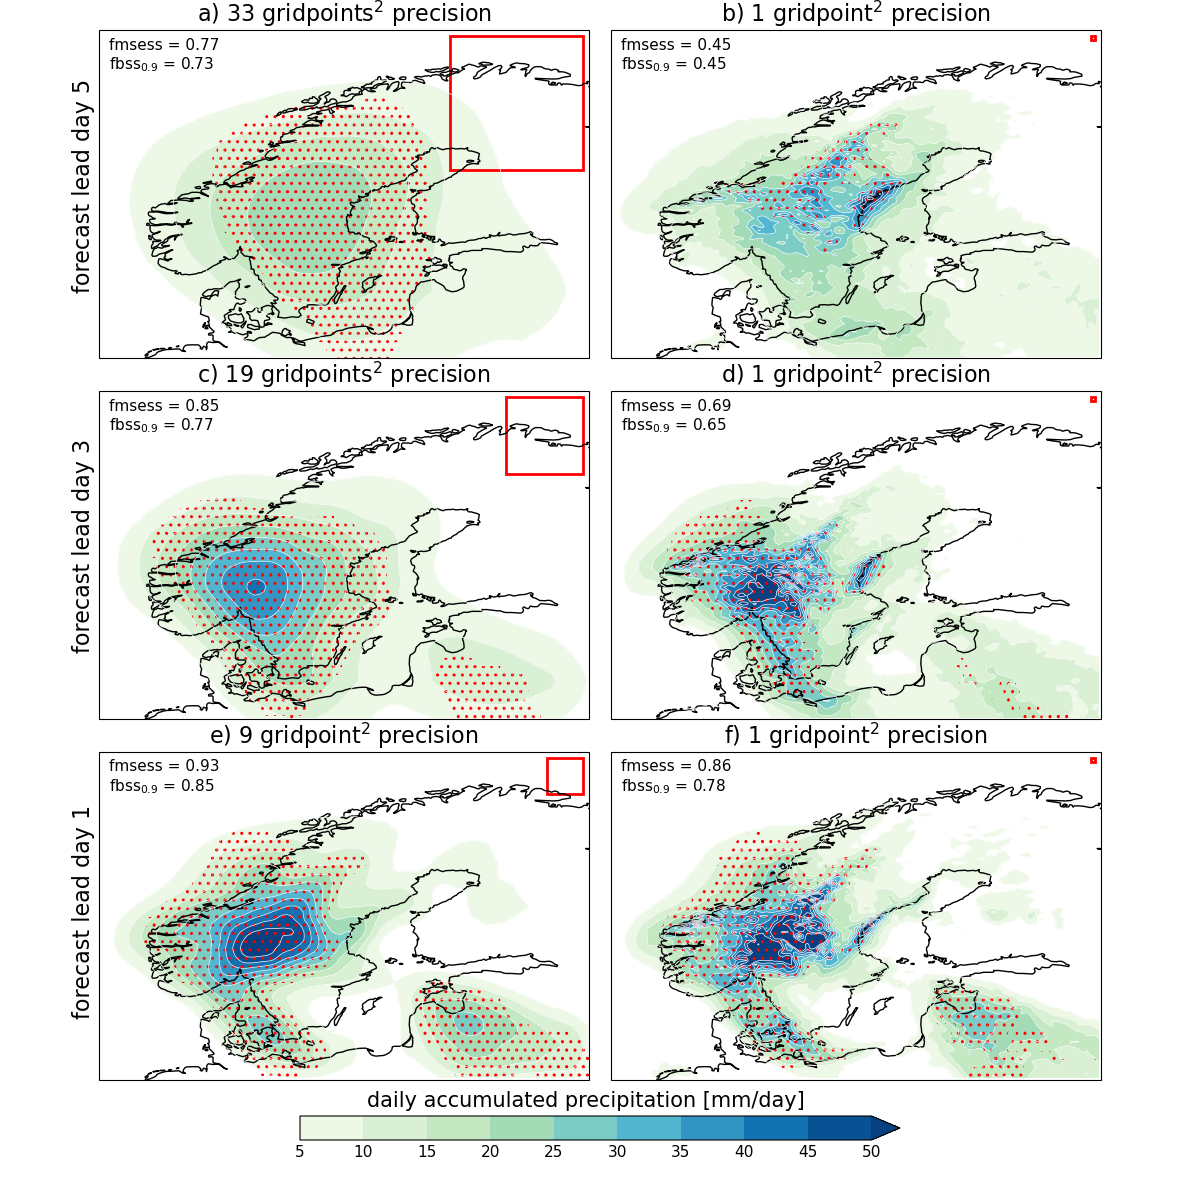
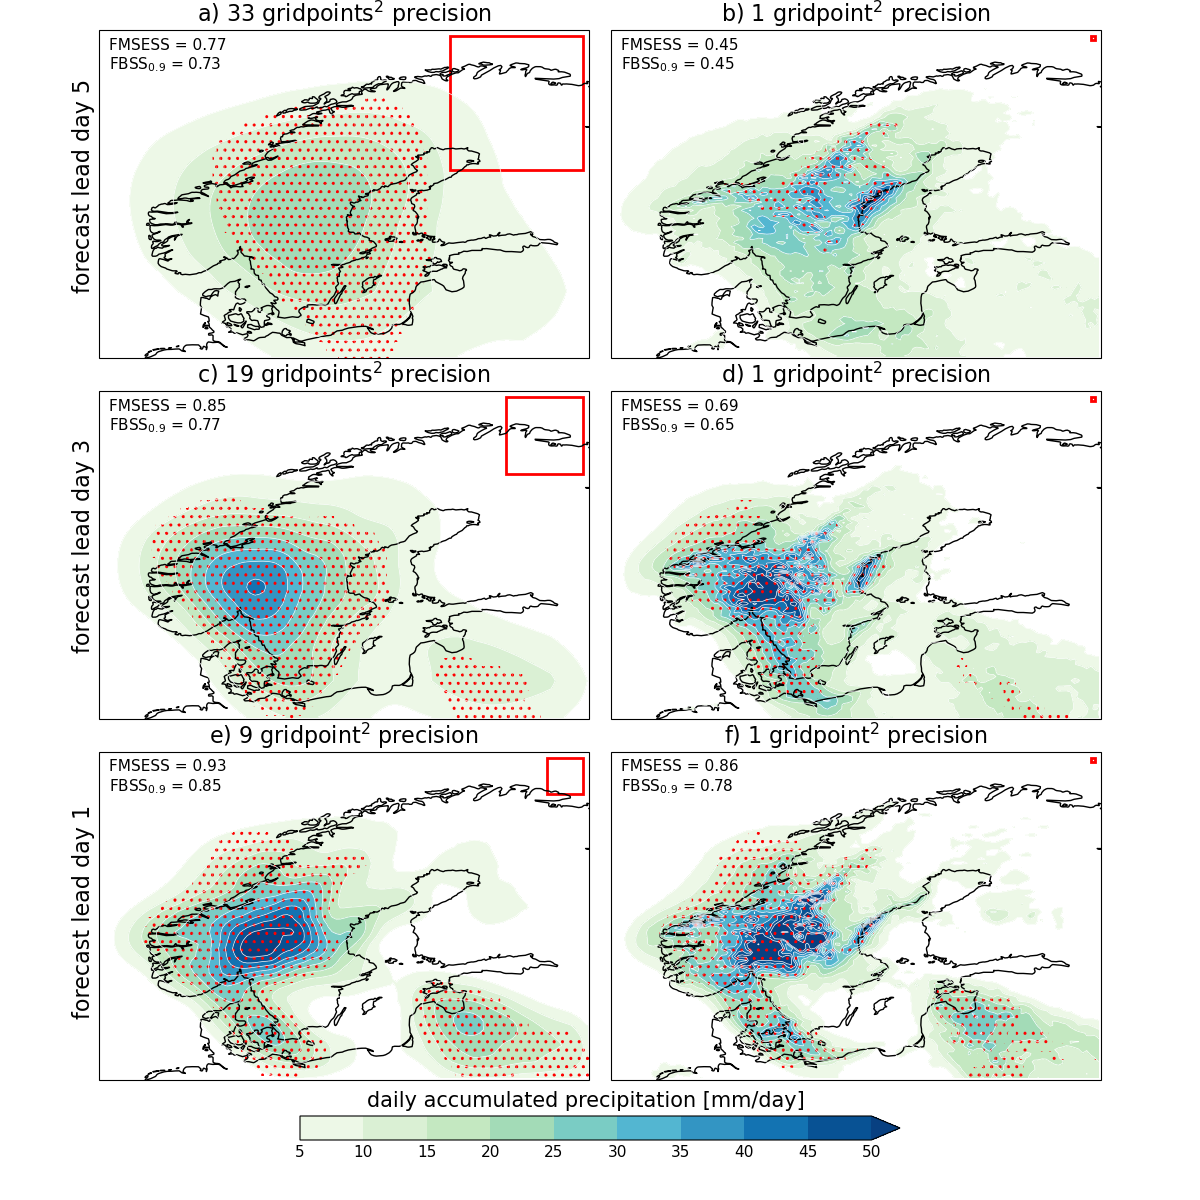
update

diff --git a/code/plot/plot-fig-06.py b/code/plot/plot-fig-06.py
@@ -88,12 +88,12 @@ title4 = r'd) 1 gridpoint$^2$ precision'
 title5 = r'e) 9 gridpoint$^2$ precision'
 title6 = r'f) 1 gridpoint$^2$ precision'
 
-stats1 = r'fmsess = ' + str(da1['fmsess'].values.round(2)) + '\nfbss$_{0.9}$ = ' + str(da1['fbss'].values.round(2))
-stats2 = r'fmsess = ' + str(da2['fmsess'].values.round(2)) + '\nfbss$_{0.9}$ = ' + str(da2['fbss'].values.round(2))
-stats3 = r'fmsess = ' + str(da3['fmsess'].values.round(2)) + '\nfbss$_{0.9}$ = ' + str(da3['fbss'].values.round(2))
-stats4 = r'fmsess = ' + str(da4['fmsess'].values.round(2)) + '\nfbss$_{0.9}$ = ' + str(da4['fbss'].values.round(2))
-stats5 = r'fmsess = ' + str(da5['fmsess'].values.round(2)) + '\nfbss$_{0.9}$ = ' + str(da5['fbss'].values.round(2))
-stats6 = r'fmsess = ' + str(da6['fmsess'].values.round(2)) + '\nfbss$_{0.9}$ = ' + str(da6['fbss'].values.round(2))
+stats1 = r'FMSESS = ' + str(da1['fmsess'].values.round(2)) + '\nFBSS$_{0.9}$ = ' + str(da1['fbss'].values.round(2))
+stats2 = r'FMSESS = ' + str(da2['fmsess'].values.round(2)) + '\nFBSS$_{0.9}$ = ' + str(da2['fbss'].values.round(2))
+stats3 = r'FMSESS = ' + str(da3['fmsess'].values.round(2)) + '\nFBSS$_{0.9}$ = ' + str(da3['fbss'].values.round(2))
+stats4 = r'FMSESS = ' + str(da4['fmsess'].values.round(2)) + '\nFBSS$_{0.9}$ = ' + str(da4['fbss'].values.round(2))
+stats5 = r'FMSESS = ' + str(da5['fmsess'].values.round(2)) + '\nFBSS$_{0.9}$ = ' + str(da5['fbss'].values.round(2))
+stats6 = r'FMSESS = ' + str(da6['fmsess'].values.round(2)) + '\nFBSS$_{0.9}$ = ' + str(da6['fbss'].values.round(2))
 
 setup_subplot_xy(1, ax[0], da1['EFI'], da1[variable], clevs, cmap, fontsize, title1, stats1)
 setup_subplot_xy(2, ax[1], da2['EFI'], da2[variable], clevs, cmap, fontsize, title2, stats2)
